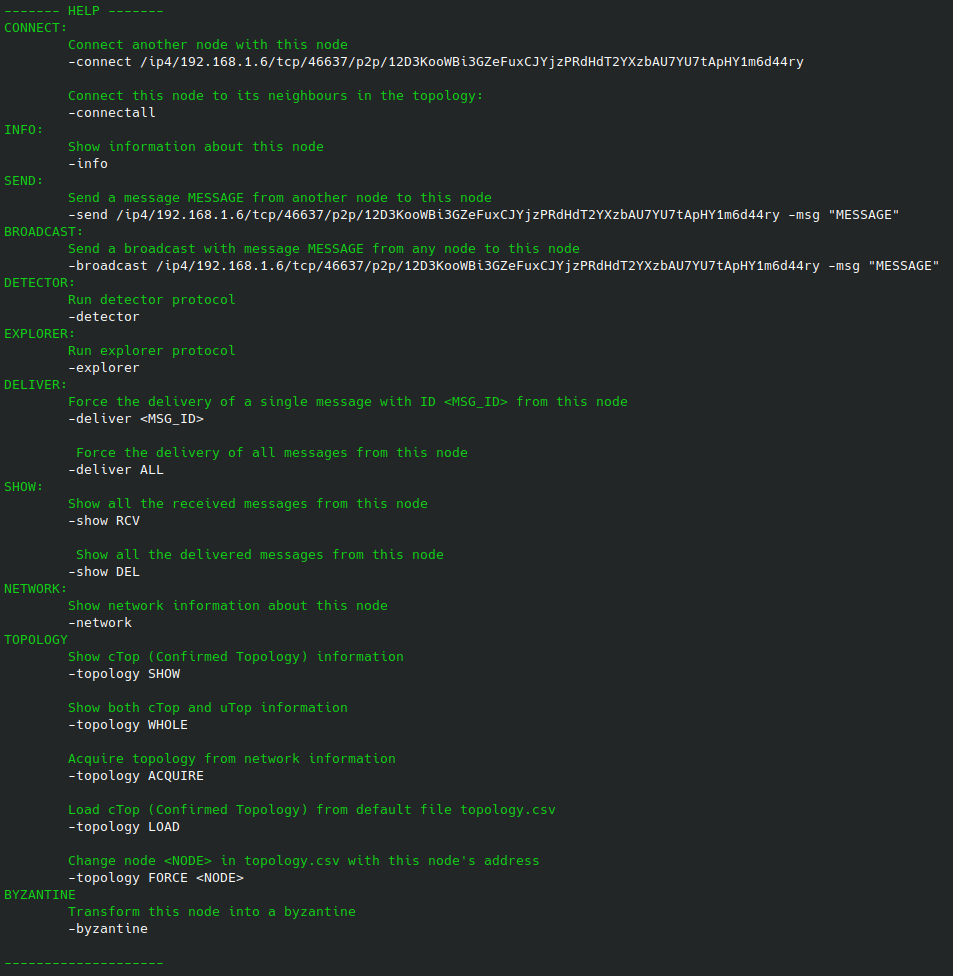
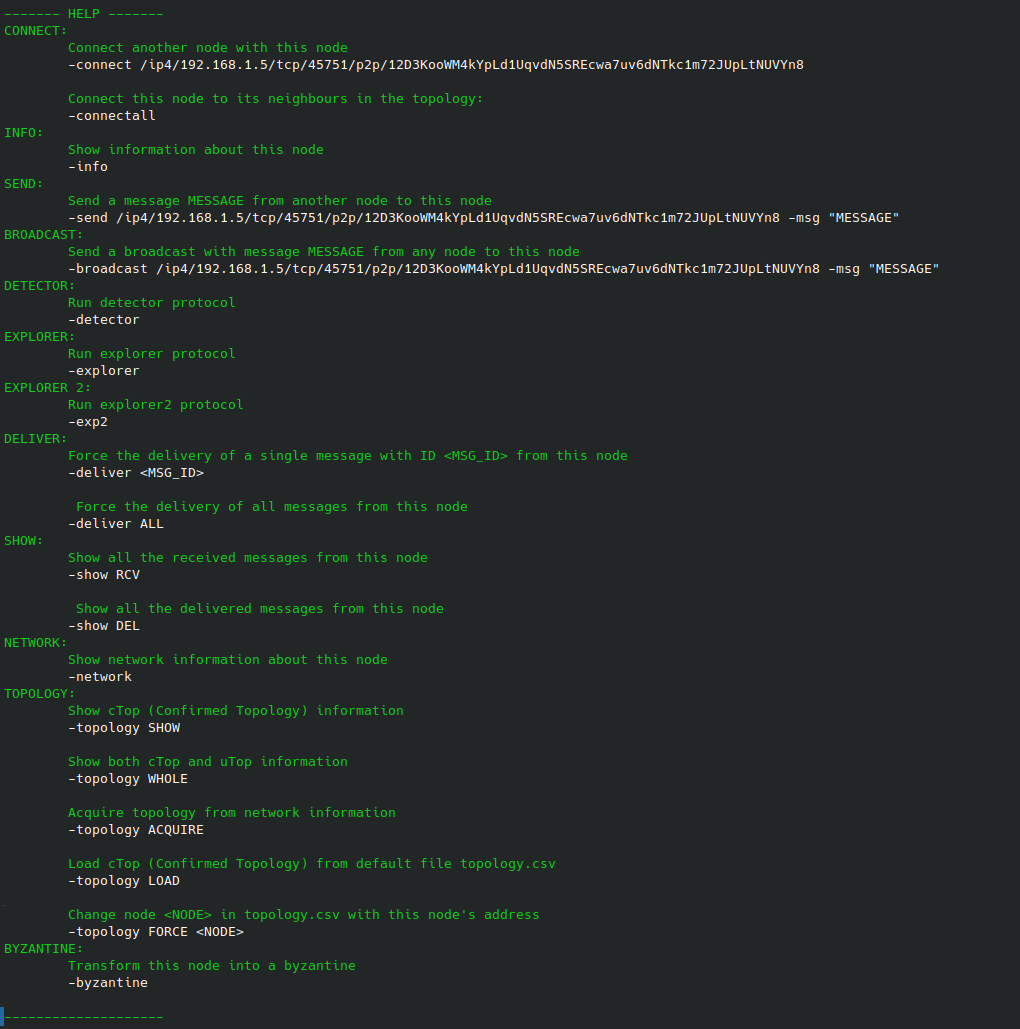
ARGO

diff --git a/src/constants.go b/src/constants.go
@@ -96,4 +96,5 @@ const (
 	// Log constants
 	LOGDIR		= "../logs"
 	PRINTOPTION	= true
+
 )

diff --git a/README.md b/README.md
@@ -304,7 +304,7 @@ Their purpose is to reconstruct the network topology under certain conditions (d
 
 However, **EXPLORER** has been proven to be wrong (see more [here](http://antares.cs.kent.edu/~mikhail/Research/topology.errata.html)), and so it has to be replaced with **EXPLORER2**, described @ `Tractable Reliable Communication in Compromised Networks, Giovanni Farina - cpt. 9.3, 9.4`
 
-These protocols imply the sending of some messages in the network. These messages are **NOT RECORDED** in the message container and **DO NOT USE** the described above broadcast communication primitive, but they implement their own broadcast.
+These protocols imply the sending of some messages in the network. These messages **DO NOT USE** the described above broadcast communication primitive, but they implement their own broadcast.
 
 Detector and Explorer can be invoked by running the ```-detector``` and/or ```-explorer``` commands.
 
